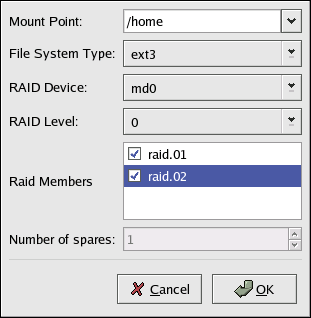
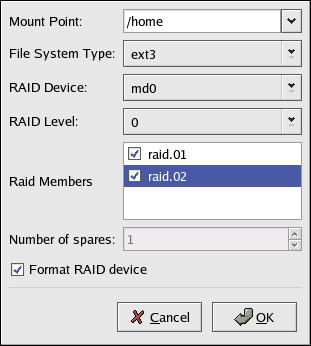
add format raid device

diff --git a/doc/redhat-config-kickstart-partitions.html b/doc/redhat-config-kickstart-partitions.html
@@ -328,9 +328,9 @@ CLASS="GUILABEL"
 ></LI
 ><LI
 ><P
->Select a mount point, file system type, RAIDE device name, 
-	      RAID level, RAID members, and number of spares for the software
-	      RAID device.</P
+>Select a mount point, file system type, RAID device name, 
+	      RAID level, RAID members, number of spares for the software
+	      RAID device, and whether to format the partition.</P
 ><DIV
 CLASS="FIGURE"
 ><A

diff --git a/doc/system-config-kickstart-partitions.html b/doc/system-config-kickstart-partitions.html
@@ -328,9 +328,9 @@ CLASS="GUILABEL"
 ></LI
 ><LI
 ><P
->Select a mount point, file system type, RAIDE device name, 
-	      RAID level, RAID members, and number of spares for the software
-	      RAID device.</P
+>Select a mount point, file system type, RAID device name, 
+	      RAID level, RAID members, number of spares for the software
+	      RAID device, and whether to format the partition.</P
 ><DIV
 CLASS="FIGURE"
 ><A
